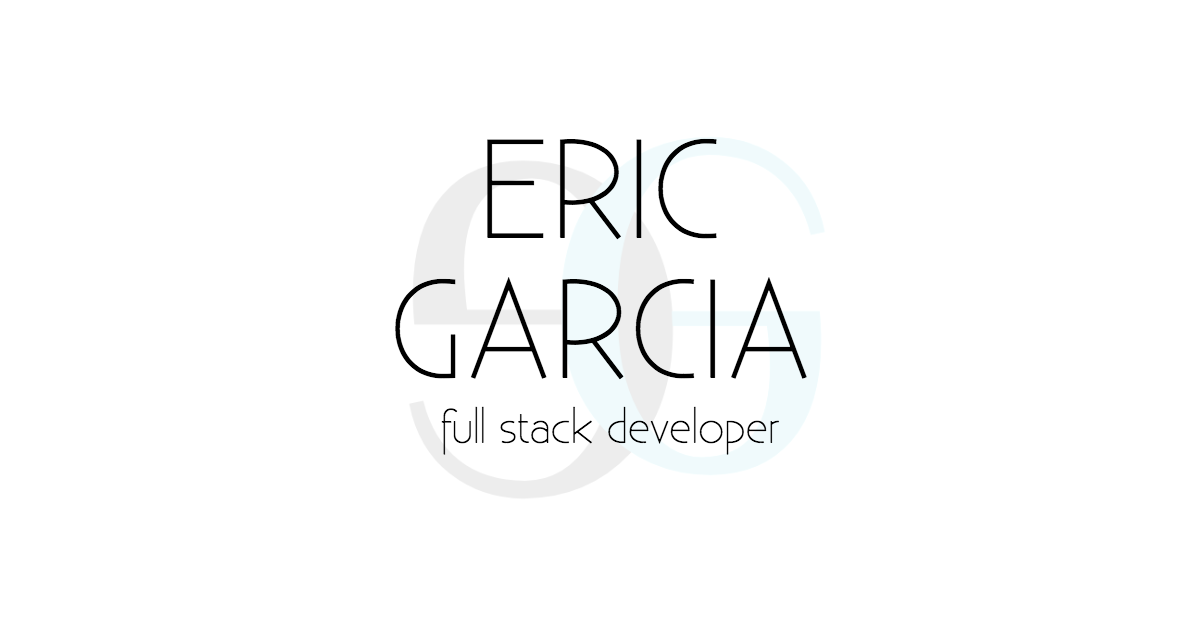
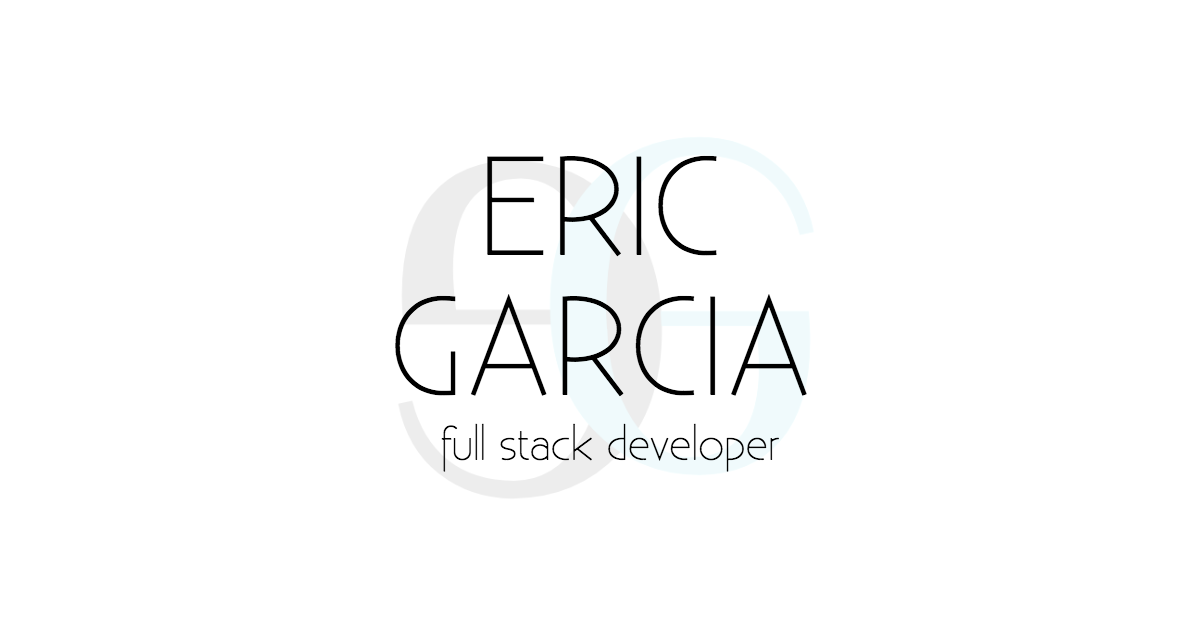
removing message at top/beginning of portfolio, adding hero image.  Removed name and pic from navbar.  Going to format that later.

Changed region(s): [[0.3083, 0.2111, 0.6783, 0.6333], [0.37, 0.6635, 0.6475, 0.754], [0.4008, 0.3619, 0.4625, 0.4222]]

diff --git a/src/components/Main/index.js b/src/components/Main/index.js
@@ -1,9 +1,7 @@
-
-// eslint-disable-next-line no-unused-vars
 import React from "react";
-import Typing from "react-typing-animation";
 import Icon from "../Icon";
 import Card from "../Card";
+import Hero from "../Hero";
 import gitIcon from "../../assets/images/icons/giticon.png";
 import githubIcon from "../../assets/images/icons/github.png";
 import reactIcon from "../../assets/images/icons/reacticon.png";
@@ -24,35 +22,16 @@ import pupsterPic from "../../assets/images/pupsterDemo.gif";
 import eatDaBurgerPic from "../../assets/images/EatDaBurger.png";
 import casaCocktailsPic from "../../assets/images/CasaCocktailsPic.png";
 import weatherAppPic from "../../assets/images/WeatherScreenShot.png";
-import resume from "../../assets/Resume.pdf"
+import resume from "../../assets/Resume.pdf";
+import hero from "../../assets/images/portfolio-hero.png";
 import "./style.css";
 
 const Main = () => {
 
   return (
     <main>
-      <div className="row" id="topSection">
-        <div className="col-xl-2 col-lg-2 col-1">
-        </div>
-        <div className="col-xl-8 col-lg-8 col-10">
-          <div id="intro">
-            <Typing speed={1}>
-              <p>Have an idea for a site or application?</p>
-              <Typing.Delay ms={1000} />
-              <p>Need to revamp an existing website?</p>
-              <Typing.Delay ms={1000} />
-              <p>Or just need a hand with a project?</p>
-              <Typing.Delay ms={1000} />
-              <p>
-                <a className="gray" style={{"textDecoration": "none"}} href="mailto:egarcia1868@gmail.com">Let's chat</a> and see how I can help!
-            </p>
-            </Typing>
-          </div>
-        </div>
-        <div className="col-xl-2 col-lg-2 col-1">
-        </div>
-        <div className="col-12"></div>
-      </div>
+      <Hero backgroundImage={hero}
+      />
       <div className="labelBar" id="about">
         <h1>
           About Me

diff --git a/src/components/Navbar/index.js b/src/components/Navbar/index.js
@@ -1,25 +1,10 @@
 import React from "react";
 import "./style.css";
-import headshot from "../../assets/images/face234.png"
 
-const Header = () => {
+const Navbar = () => {
   return (
     <div className="container-fluid" id="sticky">
       <div className="row">
-        <div className="col-xl-1 col-lg-1 col-md-4 col-sm-3 col-2">
-        </div>
-        <div id="topline" className="col-xl-4 col-lg-4 col-md-5 col-sm-9 col-8">
-          <img src={headshot} alt="Eric Garcia" id="bioPic" />
-          <div className="toptext">
-            <p style={{marginBottom: 0}}>
-              Eric Garcia</p><p style={{color: "#777777"}}>Full-Stack Web Developer
-            </p>
-          </div>
-        </div>
-        <div className="col-xl-1 col-lg-1 col-md-3 col-sm-1 col-2">
-        </div>
-        <div className="col-xl-1 col-lg-1 col-md-2 col-sm-1">
-        </div>
         <div className="nav-item col-xl-1 col-lg-1 col-md-2 col-sm-2 col-3">
           <a className="nav-link toptext gray" href="#about">
             About
@@ -47,4 +32,4 @@ const Header = () => {
   )
 };
 
-export default Header;
+export default Navbar;

diff --git a/src/App.js b/src/App.js
@@ -1,12 +1,12 @@
 import React from "react";
-import Header from "../src/components/Header";
+import Navbar from "../src/components/Navbar";
 import Main from "../src/components/Main";
 import Footer from "../src/components/Footer";
 
 function App() {
   return (
     <div>
-      <Header />
+      <Navbar />
       <Main />
       <Footer />
     </div>

diff --git a/src/components/Hero/index.js b/src/components/Hero/index.js
@@ -1,0 +1,16 @@
+import React from "react";
+import "./style.css";
+
+function Hero(props) {
+  return (
+    <div className="text-center">
+      <img 
+      src={props.backgroundImage}
+      className="img-fluid"
+      alt=""
+      />
+    </div>
+  );
+}
+
+export default Hero;
